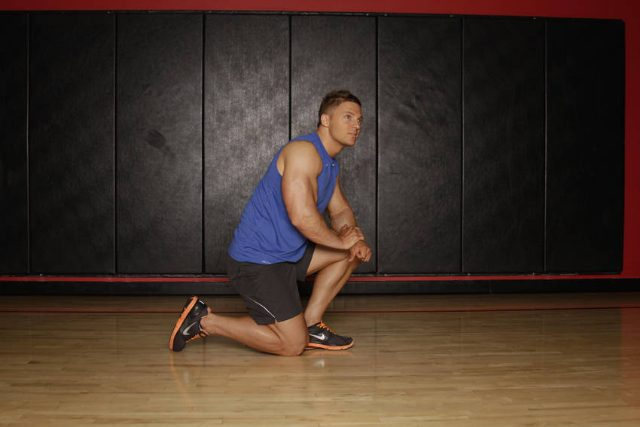
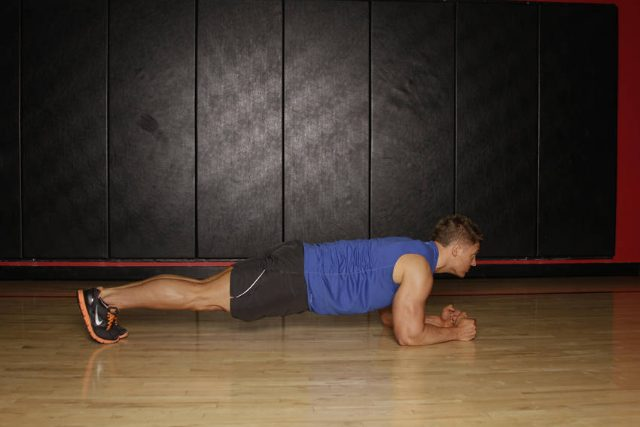
Look at all 66 exercise photos, and fix the two that were wrong
Only five of the sixty-six stills had ever actually been looked at. A
mapping can be perfectly plausible in media-map.json and still be the
wrong movement on screen, so tools/contact-sheet.js now writes one page
showing every exercise's name against its still and its clip. Two
minutes of scanning found two real problems.

The plank's still was a photograph of a man kneeling on the floor. The
source's first image is the start position, which for an isometric hold
is the part before the exercise — so map entries can now ask for the end
frame instead, and the plank does.

The cable lateral raise was pictured seated while its instructions
described a standing one-arm version, which is the sort of mismatch that
makes someone doubt everything else on the page. The source library has
exactly one cable lateral raise and it is the seated one, so the name
and the steps now describe what the photograph shows, in both languages.

The other sixty-four are correct, including the ones worth a second
look: the assisted pull-up machine really is pictured as the close-grip
pulldown its own name offers as the alternative, and the Bulgarian split
squat fixed earlier is genuinely rear-foot-elevated.

Claude-Session: https://claude.ai/code/session_01MivA9Tai1Cia7iuPcanLAP

diff --git a/tools/contact-sheet.js b/tools/contact-sheet.js
@@ -1,0 +1,75 @@
+/* ============================================================================
+   GymBuddy 2.0 — tools/contact-sheet.js
+   ----------------------------------------------------------------------------
+   Writes tools/contact-sheet.html: every exercise in the library shown as its
+   name, the source entry the media came from, its still and its clip, side by
+   side in one scrollable page.
+
+   This exists because reading media-map.json proves nothing. The mapping can
+   be plausible on paper and wrong on screen — a "Bulgarian Split Squat" that
+   is really a reverse lunge, a "Plank" still that is a photograph of someone
+   kneeling on the floor — and the only way to catch that is to look at all of
+   them at once. Sixty-six images take about two minutes to scan, and the last
+   two passes found three genuine mismatches between them.
+
+       node tools/contact-sheet.js && open tools/contact-sheet.html
+   ============================================================================ */
+
+const fs = require("fs");
+const path = require("path");
+
+const ROOT = path.join(__dirname, "..");
+const MAP = require("./media-map.json");
+
+const source = fs.readFileSync(path.join(ROOT, "js/data.js"), "utf8");
+const names = {};
+source.replace(/id:\s*"([^"]+)",\s*name:\s*"([^"]+)"/g, (_, id, name) => { names[id] = name; return _; });
+
+const rows = Object.keys(MAP).map(id => {
+  const spec = typeof MAP[id] === "string" ? { source: MAP[id] } : MAP[id];
+  return {
+    id, name: names[id] || id, source: spec.source,
+    poster: spec.poster === "end" ? " · still from the end position" : "",
+    photo: `../assets/photos/${id}.jpg`,
+    clip: `../assets/clips/${id}.webm`,
+    missing: !fs.existsSync(path.join(ROOT, "assets/photos", `${id}.jpg`)),
+  };
+});
+
+const html = `<!doctype html>
+<html lang="en"><head><meta charset="utf-8">
+<meta name="viewport" content="width=device-width,initial-scale=1">
+<title>GymBuddy media contact sheet</title>
+<style>
+  body{ background:#faf9f7; color:#16150f; margin:0; padding:20px;
+        font:14px/1.4 system-ui,-apple-system,"Segoe UI",sans-serif; }
+  h1{ font-size:19px; margin:0 0 4px; }
+  p.lede{ color:#585349; margin:0 0 20px; max-width:70ch; }
+  .grid{ display:grid; grid-template-columns:repeat(auto-fill,minmax(230px,1fr)); gap:14px; }
+  figure{ margin:0; background:#fff; border:1px solid #ddd9d0; border-radius:8px; overflow:hidden; }
+  .media{ display:grid; grid-template-columns:1fr 1fr; background:#f2f0ec; }
+  img,video{ width:100%; height:150px; object-fit:contain; display:block; background:#fff; }
+  figcaption{ padding:8px 10px; }
+  b{ display:block; font-size:13px; }
+  span{ display:block; color:#6b6559; font-size:11.5px; margin-top:2px; }
+  .missing{ border-color:#c0392b; }
+  .missing b::after{ content:" — no photo"; color:#c0392b; }
+</style></head><body>
+<h1>Media contact sheet — ${rows.length} exercises</h1>
+<p class="lede">Left: the still shown in the exercise list. Right: the looping clip.
+Under each name is the free-exercise-db entry it was built from. Read the name,
+look at the picture, and check they are the same movement.</p>
+<div class="grid">
+${rows.map(r => `  <figure class="${r.missing ? "missing" : ""}">
+    <div class="media">
+      <img src="${r.photo}" alt="" loading="lazy">
+      <video src="${r.clip}" autoplay loop muted playsinline></video>
+    </div>
+    <figcaption><b>${r.name}</b><span>${r.source}${r.poster}</span></figcaption>
+  </figure>`).join("\n")}
+</div>
+</body></html>`;
+
+fs.writeFileSync(path.join(__dirname, "contact-sheet.html"), html);
+console.log(`tools/contact-sheet.html — ${rows.length} exercises, ` +
+            `${rows.filter(r => r.missing).length} missing a photo`);

diff --git a/tools/build-media.js b/tools/build-media.js
@@ -5,7 +5,8 @@
 
    For each exercise it produces two files:
 
-     assets/photos/<id>.jpg   a 640px still of the start position
+     assets/photos/<id>.jpg   a 640px still, normally of the start position
+                              (see the `poster` override in media-map.json)
      assets/clips/<id>.webm   a ~1.2s looping demonstration
 
    The clip is assembled from the source's two frames — start and end position —
@@ -61,11 +62,12 @@ async function main() {
 
   let built = 0, failed = [];
   for (const id of ids) {
-    const entry = byName[MAP[id]];
+    const spec = typeof MAP[id] === "string" ? { source: MAP[id] } : MAP[id];
+    const entry = byName[spec.source];
     if (!entry || (entry.images || []).length < 2) { failed.push(`${id}: no source images`); continue; }
     try {
       const [a, b] = await Promise.all(entry.images.slice(0, 2).map(fetchImage));
-      const out = await renderFrames(page, a, b);
+      const out = await renderFrames(page, a, b, spec.poster === "end");
       fs.writeFileSync(path.join(ROOT, "assets/photos", `${id}.jpg`), out.poster);
       encodeWebm(out.frames, path.join(ROOT, "assets/clips", `${id}.webm`));
       built++;
@@ -109,8 +111,8 @@ function get(url) {
 
 /* All the image work happens inside the page: canvas gives us decode, resize,
    alpha compositing and JPEG encoding without pulling in an image library. */
-async function renderFrames(page, aB64, bB64) {
-  const result = await page.evaluate(async ({ aB64, bB64, FPS, HOLD_START, CONCENTRIC, HOLD_END, ECCENTRIC }) => {
+async function renderFrames(page, aB64, bB64, posterFromEnd) {
+  const result = await page.evaluate(async ({ aB64, bB64, posterFromEnd, FPS, HOLD_START, CONCENTRIC, HOLD_END, ECCENTRIC }) => {
     const load = src => new Promise((res, rej) => {
       const img = new Image(); img.onload = () => res(img); img.onerror = rej; img.src = src;
     });
@@ -136,11 +138,16 @@ async function renderFrames(page, aB64, bB64) {
     for (let i = 0; i < HOLD_END; i++) frames.push(frame(1));
     for (let i = 1; i <= ECCENTRIC; i++) frames.push(frame(1 - ease(i / ECCENTRIC)));
 
+    /* The still is normally the start position, which is what you set up
+       into. For an isometric hold that is wrong: the "start" of a plank is
+       kneeling on the floor, which is a photograph of nothing. Those entries
+       ask for the end frame instead. */
+    const still = posterFromEnd ? b : a;
     const pv = document.createElement("canvas");
-    pv.width = 640; pv.height = Math.round(a.height * (640 / a.width));
-    pv.getContext("2d").drawImage(a, 0, 0, pv.width, pv.height);
+    pv.width = 640; pv.height = Math.round(still.height * (640 / still.width));
+    pv.getContext("2d").drawImage(still, 0, 0, pv.width, pv.height);
     return { frames, poster: pv.toDataURL("image/jpeg", 0.82).split(",")[1] };
-  }, { aB64, bB64, FPS, HOLD_START, CONCENTRIC, HOLD_END, ECCENTRIC });
+  }, { aB64, bB64, posterFromEnd: !!posterFromEnd, FPS, HOLD_START, CONCENTRIC, HOLD_END, ECCENTRIC });
 
   return {
     frames: result.frames.map(f => Buffer.from(f, "base64")),

diff --git a/js/i18n/content.ar.js b/js/i18n/content.ar.js
@@ -400,14 +400,17 @@ I18n.register("ar", {
       tips: ["القبضة المحايدة عادةً أرفق بالكوع المتألم من القبضة المستلقية."],
     },
     "cable-lateral-raise": {
-      name: "رفرفة جانبية بالكابل",
+      name: "رفرفة جانبية بالكابل من الجلوس",
       steps: [
-        "ركّب مقبضاً مفرداً على أدنى بكرة وقف جانبياً، وأمسكه باليد البعيدة عن الجهاز.",
-        "مع ثني خفيف في المرفق، ارفع ذراعك إلى الجانب حتى مستوى الكتف.",
-        "قُد الحركة بالمرفق وأبقِ الكتف منخفضاً بعيداً عن أذنك.",
-        "أنزِل ببطء — الكابل يُبقي الشدّ في الأسفل حيث يفقده الدمبل.",
+        "اجلس على مقعد منخفض بين بكرتين سفليتين، وأمسك المقبض الأيسر بيدك اليمنى والأيمن بيدك اليسرى بحيث يتقاطع الكابلان أمام ساقيك.",
+        "مع ثني خفيف وثابت في كل مرفق، ارفع ذراعيك إلى الجانبين حتى مستوى الكتف.",
+        "قُد الحركة بالمرفقين وأبقِ كتفيك منخفضين بعيداً عن أذنيك.",
+        "أنزِل ببطء — الكابلان المتقاطعان يُبقيان الشدّ في الأسفل حيث يفقده الدمبل تماماً.",
       ],
-      tips: ["منحنى مقاومة أنعم من الدمبل؛ مفيد حين تبدو قفزات الـ2 كجم كبيرة."],
+      tips: [
+        "الجلوس يُخرِج الساقين وأسفل الظهر من الحركة، فلا يبقى ما يساعدك على رفع الوزن بالغش.",
+        "منحنى مقاومة أنعم من الدمبل؛ مفيد حين تبدو قفزات الـ2 كجم كبيرة.",
+      ],
     },
     "hanging-knee-raise": {
       name: "رفع الركبتين من التعلّق",

diff --git a/js/data.js b/js/data.js
@@ -802,16 +802,19 @@ const SUPPLEMENTARY_EXERCISES = [
     tips: ["Neutral grip is usually kinder to a sore elbow than a supinated curl."],
   },
   {
-    id: "cable-lateral-raise", name: "Cable Lateral Raise", day: null,
+    id: "cable-lateral-raise", name: "Seated Cable Lateral Raise", day: null,
     dayLabel: "Library", equipment: "Cable", muscle: "shoulders", icon: "cable",
     sets: "3 x 12–15",
     steps: [
-      "Set a D-handle at the lowest pulley and stand side-on, grabbing it with the outside hand.",
-      "With a slight elbow bend, raise your arm out to the side to shoulder height.",
-      "Lead with the elbow and keep the shoulder down away from your ear.",
-      "Lower slowly — the cable keeps tension at the bottom where dumbbells lose it.",
+      "Sit on a low bench between two low pulleys and take the left handle in your right hand and the right handle in your left, so the cables cross in front of your shins.",
+      "With a slight, fixed bend in each elbow, raise both arms out to the side to shoulder height.",
+      "Lead with the elbows and keep your shoulders down away from your ears.",
+      "Lower slowly — crossed cables keep tension at the bottom, where dumbbells lose it entirely.",
     ],
-    tips: ["Smoother resistance curve than dumbbells; good when 2 kg jumps feel too big."],
+    tips: [
+      "Sitting takes the legs and lower back out of it, so nothing helps you cheat the weight up.",
+      "Smoother resistance curve than dumbbells; good when 2 kg jumps feel too big.",
+    ],
   },
   {
     id: "hanging-knee-raise", name: "Hanging Knee Raise", day: null,
